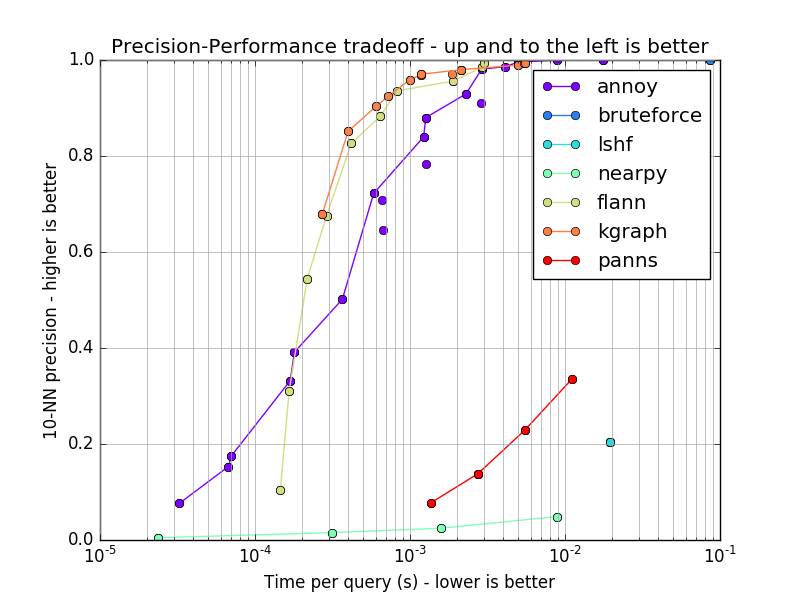
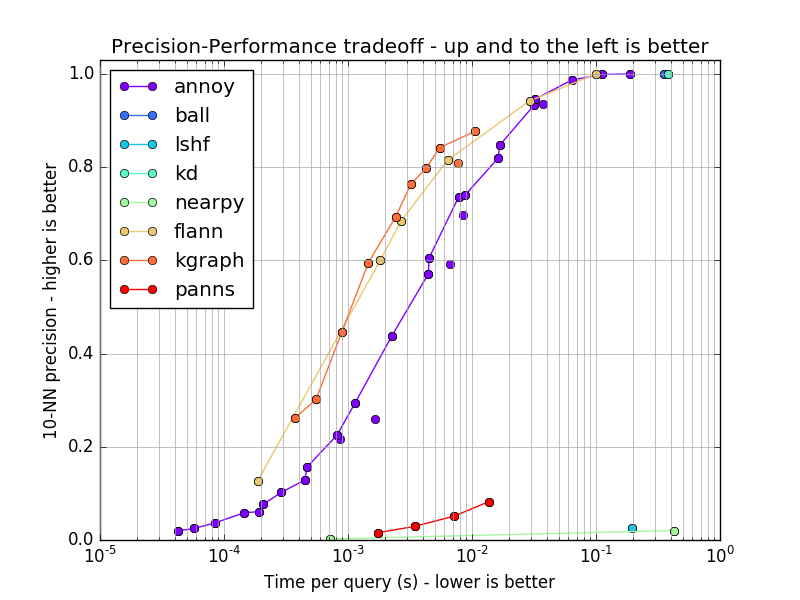
more plots

Changed region(s): [[0.0625, 0.09, 0.9062, 0.96]]

diff --git a/plot.py b/plot.py
@@ -40,8 +40,8 @@ plt.gca().set_xscale('log')
 plt.gca().set_title('Precision-Performance tradeoff - up and to the left is better')
 plt.gca().set_xlabel('Time per query (s) - lower is better')
 plt.gca().set_ylabel('10-NN precision - higher is better')
-plt.gca().legend(handles, labels, 'upper left')
+plt.gca().legend(handles=handles, labels=labels, loc='upper left')
 plt.grid(b=True, which='both', color='0.65',linestyle='-')
-
+plt.ylim([0, 1.03])
 plt.savefig('plot.png')
 

diff --git a/README.rst b/README.rst
@@ -48,7 +48,7 @@ Princniples
 Results
 -------
 
-Currently this is on the top 100k vectors from GloVe (27B Twitter version with 100 dimensions).
+Currently this is on the full 1.15M vectors from GloVe (100 dimensions, trained from tweets).
 This is very much a work in progress... more results coming later!
 
 .. figure:: https://raw.github.com/erikbern/ann-benchmarks/master/plot.png
